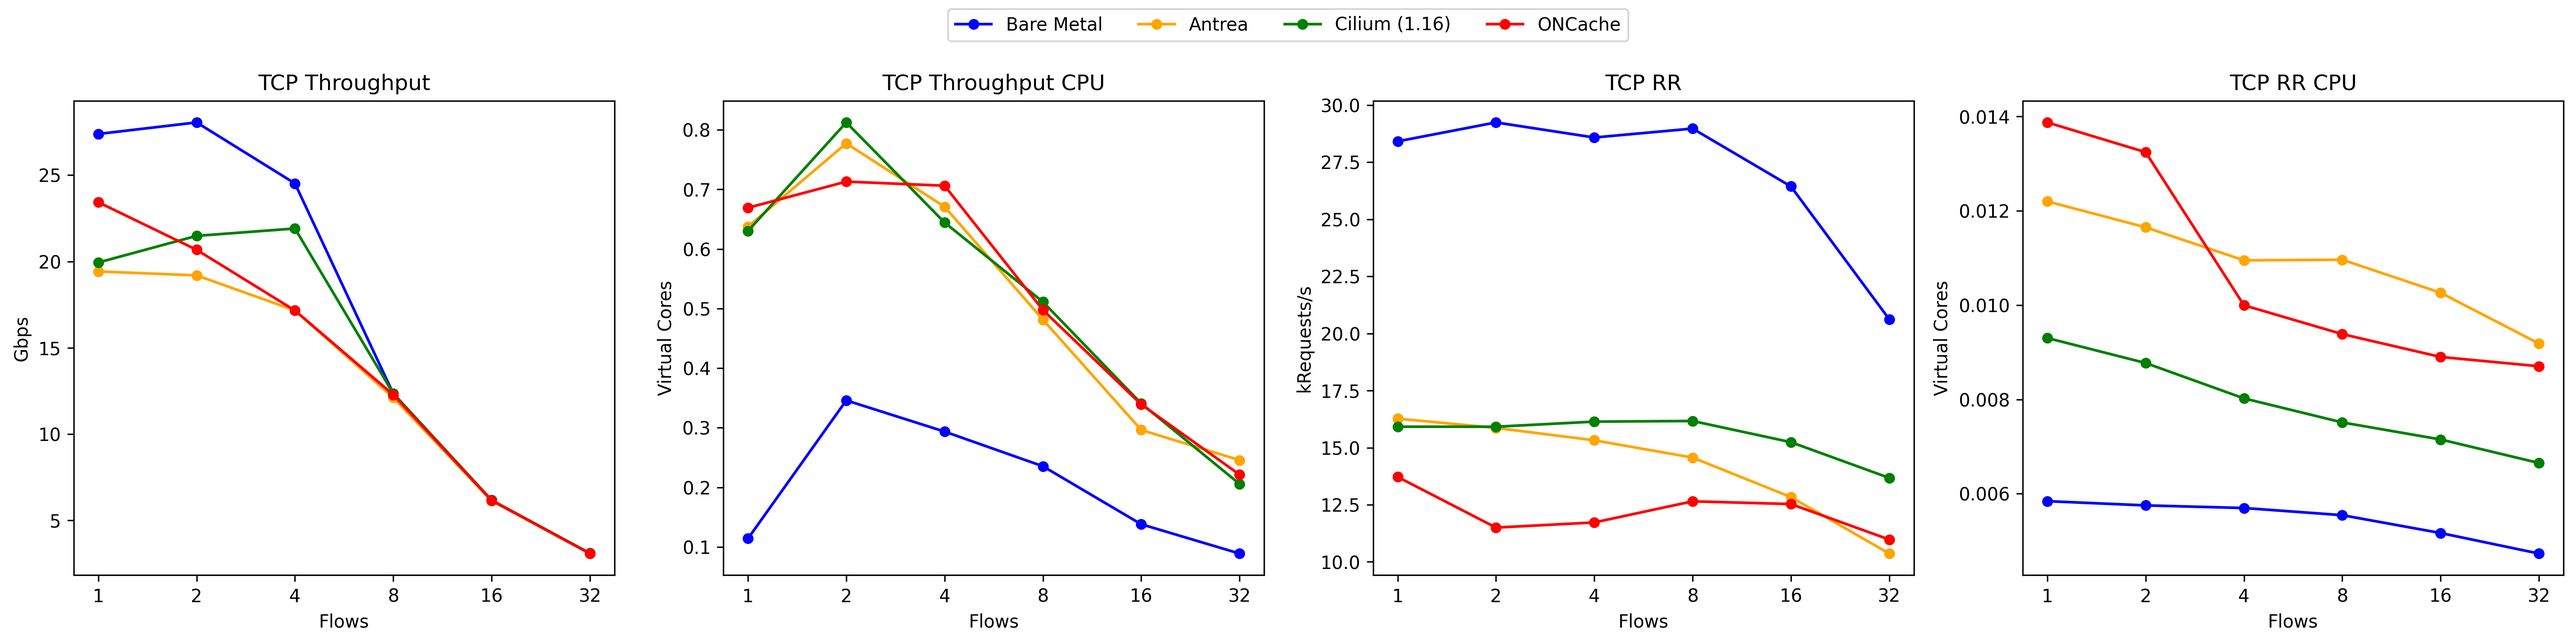
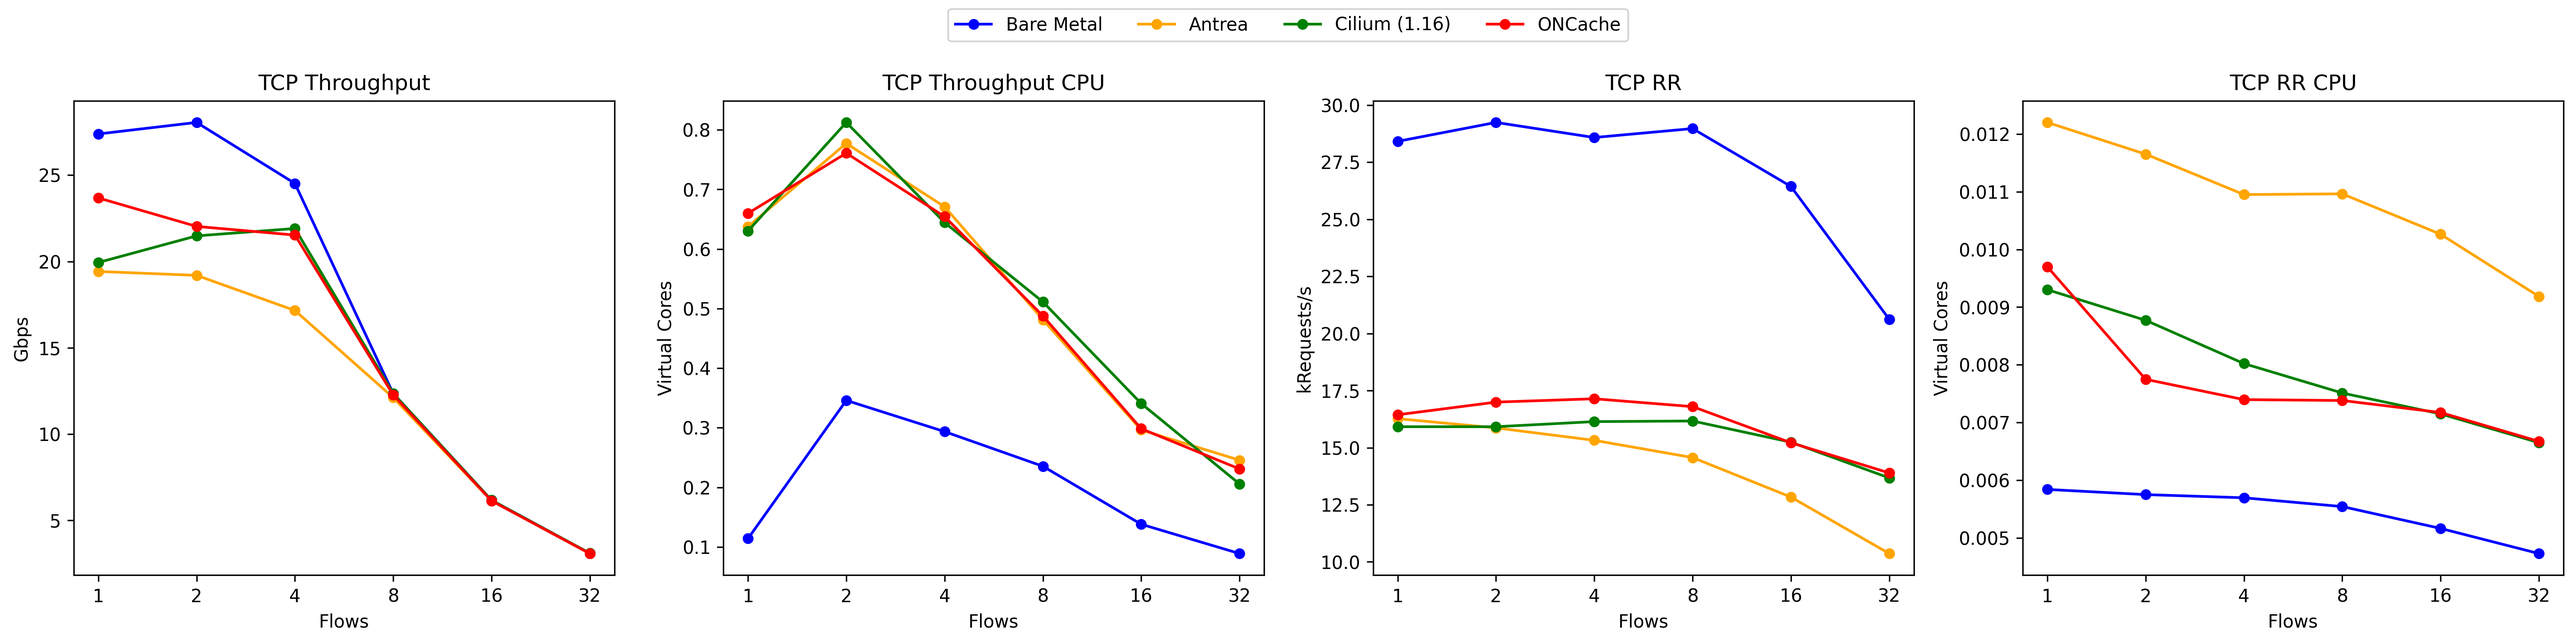
Update benchmark for iperf

diff --git a/baremetal/benchmark.py b/baremetal/benchmark.py
@@ -18,12 +18,15 @@ def run_client_iperf(
         for i in range(n_flows):
             cmd = [
                 "iperf3",
+                "-l1m",  # Set the length of the buffer to 1 MB
                 "-c",
                 destination,
                 "-p",  # Port number to connect to the server
                 str(benchmark_config["port_start"] + i),
                 "-t",  # Duration of the test in seconds
                 str(benchmark_config["duration"]),
+                "-O",  # Set the number of seconds to omit at the start of the test
+                str(benchmark_config["omit"]),
                 "--logfile",
                 f"logs/baremetal/{bench_type.value.lower()}/client_log_throughput_{n_flows}_flows_{i}.json",
                 "--json",  # Output in JSON format for easier parsing

diff --git a/k8s/benchmark.py b/k8s/benchmark.py
@@ -128,10 +128,13 @@ def run_iperf3_benchmark(
                 client["name"],
                 "--",
                 "iperf3",
+                "-l1m",  # Set the length of the buffer to 1 MB
                 "-c",
                 server["ip"],
                 "-t",  # Test type
                 str(benchmark_config["duration"]),
+                "-O",  # Set the number of seconds to omit at the start of the test
+                str(benchmark_config["omit"]),
                 "--json",
             ]
             if bench_type == BenchType.UDP:

diff --git a/shared/config.py b/shared/config.py
@@ -54,6 +54,7 @@ BenchmarkConfig = TypedDict(
         "max_flows": int,
         "port_start": int,
         "duration": int,
+        "omit": int,
         "iterations": int,
     },
 )
